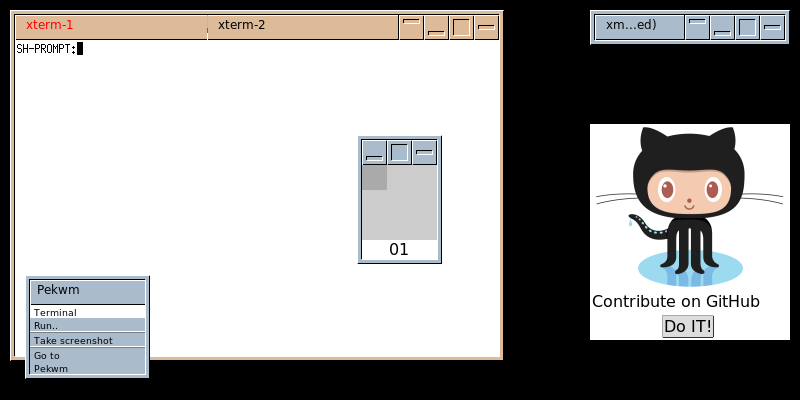
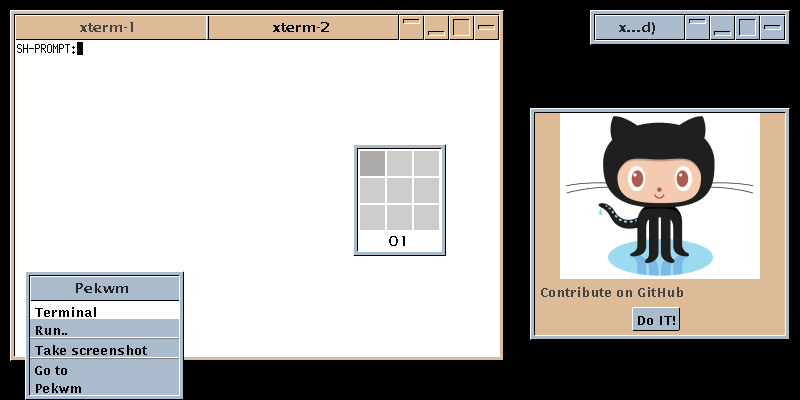
Update themes

diff --git a/themes/theme_index.html b/themes/theme_index.html
@@ -71,10 +71,14 @@
           
           
           
+          
+          
         </ul>
         
         <h2 class="category">A</h2>
         <ul class="theme-list">
+          
+          
           
           
           
@@ -139,10 +143,14 @@
           
           
           
+          
+          
         </ul>
         
         <h2 class="category">C</h2>
         <ul class="theme-list">
+          
+          
           
           
           
@@ -211,10 +219,14 @@
           
           
           
+          
+          
         </ul>
         
         <h2 class="category">E</h2>
         <ul class="theme-list">
+          
+          
           
           
           
@@ -277,6 +289,8 @@
           
           
           
+          
+          
         </ul>
         
         <h2 class="category">G</h2>
@@ -310,10 +324,14 @@
           
           
           
+          
+          
         </ul>
         
         <h2 class="category">H</h2>
         <ul class="theme-list">
+          
+          
           
           
           
@@ -378,6 +396,8 @@
           
           
           
+          
+          
         </ul>
         
         <h2 class="category">J</h2>
@@ -411,10 +431,14 @@
           
           
           
+          
+          
         </ul>
         
         <h2 class="category">K</h2>
         <ul class="theme-list">
+          
+          
           
           
           
@@ -481,6 +505,8 @@
           
           
           
+          
+          
         </ul>
         
         <h2 class="category">M</h2>
@@ -510,6 +536,8 @@
           
           
           <li><a href="mavon-t.html">mavon-t</a>, mavon-t, port of a theme for mavosxwm</li>
+          
+          
           
           
           
@@ -556,10 +584,14 @@
           
           
           
+          
+          
         </ul>
         
         <h2 class="category">O</h2>
         <ul>
+          
+          
           
           
           
@@ -617,6 +649,10 @@
           
           
           
+          <li><a href="pwm-p.html">pwm-p</a>, PWM styled themes for pekwm</li>
+          
+          
+          
           
           
           
@@ -626,6 +662,8 @@
         
         <h2 class="category">Q</h2>
         <ul>
+          
+          
           
           
           
@@ -688,10 +726,14 @@
           
           
           
+          
+          
         </ul>
         
         <h2 class="category">S</h2>
         <ul>
+          
+          
           
           
           
@@ -758,10 +800,14 @@
           
           
           
+          
+          
         </ul>
         
         <h2 class="category">U</h2>
         <ul>
+          
+          
           
           
           
@@ -824,10 +870,14 @@
           
           
           
+          
+          
         </ul>
         
         <h2 class="category">W</h2>
         <ul>
+          
+          
           
           
           
@@ -892,10 +942,14 @@
           
           
           
+          
+          
         </ul>
         
         <h2 class="category">Y</h2>
         <ul>
+          
+          
           
           
           
@@ -958,6 +1012,8 @@
           
           
           
+          
+          
         </ul>
         
         <h2 class="category">#</h2>
@@ -965,6 +1021,8 @@
           
           
           <li><a href="4dwm_based.html">4dwm_based</a>, 4dwm_based</li>
+          
+          
           
           
           

diff --git a/themes/pwm-p.html b/themes/pwm-p.html
@@ -1,0 +1,86 @@
+<!doctype html>
+<html lang="en">
+  <head>
+    <meta charset="utf-8">
+    <meta name="viewport" content="width=device-width, initial-scale=1.0">
+    <title>pwm-p theme</title>
+    <link rel="stylesheet" href="https://unpkg.com/purecss@2.0.5/build/pure-min.css"
+          integrity="sha384-LTIDeidl25h2dPxrB2Ekgc9c7sEC3CWGM6HeFmuDNUjX76Ert4Z4IY714dhZHPLd"
+          crossorigin="anonymous">
+    <link rel="stylesheet" href="https://unpkg.com/purecss@2.0.5/build/grids-responsive-min.css">
+    <link rel="stylesheet" href="https://netdna.bootstrapcdn.com/font-awesome/4.0.3/css/font-awesome.css">
+    <link rel="stylesheet" href="pekwm-theme.css">
+    <link rel="icon" type="image/x-icon" href="favicon.ico" />
+  </head>
+  <body>
+  <div class="header">
+    <div class="home-menu pure-menu pure-menu-horizontal pure-menu-fixed">
+      <ul class="pure-menu-list">
+        <li class="pure-menu-item">
+          <a href="https://pekdon.github.com" class="pure-menu-link">Blog</a>
+        </li>
+        <li class="pure-menu-item">
+          <a href="https://github.com/pekdon/pekwm/blob/master/doc/README.md" class="pure-menu-link">Doc</a>
+        </li>
+        <li class="pure-menu-item pure-menu-item-selected">
+          <a href="/themes/" class="pure-menu-link">Themes</a>
+        </li>
+        <li class="pure-menu-item">
+          <a href="https://www.pekwm.se/" class="pure-menu-link">Pekwm</a>
+        </li>
+        <li class="pure-menu-item">
+          <a href="https://github.com/pekdon/pekwm" class="pure-menu-link">Develop on Github</a>
+        </li>
+      </ul>
+    </div>
+  </div>
+
+<div>
+  <div class="content">
+    <div class="pure-g"></div>
+    <div class="pure-g">
+      <div class="pure-u-1-2">
+        <h2 class="content-head">pwm-p theme</h2>
+        <strong>Author</strong><br /> Claes Nästén<br />
+        
+        <strong>Homepage</strong><br /> <a href="https://github.com/pekdon/pekwm-theme-pwm-p">https://github.com/pekdon/pekwm-theme-pwm-p</a><br />
+        
+      </div>
+      <div class="pure-u-1-2">
+        
+      </div>
+    </div>
+    <div>
+      <figure>
+        <img class="pure-img" src="pwm-p.png" width="800"
+             alt="pwm-p screenshot" />
+        <figcaption>Generated screenshot of pwm-p</figcaption>
+      </figure>
+
+      
+      
+      
+      
+      <figure>
+        <img class="pure-img" src="pwm-p-beos.png" width="800"
+             alt="pwm-p, beos variant screenshot" />
+        <figcaption>Generated screenshot of pwm-p, beos variant</figcaption>
+      </figure>
+      
+      
+
+      
+
+      <h3>Install</h3>
+
+      <pre>$ pekwm_theme install pwm-p</pre>
+    </div>
+  </div>
+
+  <div class="footer l-box is-center">
+    pekwm themes generated from pekwm-theme-index
+  </div>
+</div>
+
+</body>
+</html>

diff --git a/themes/index.html b/themes/index.html
@@ -47,42 +47,42 @@
       </div>
     </div>
     <div class="photo-box pure-u-1 pure-u-md-1-2 pure-u-lg-1-3">
-      <a href="ion-p.html">
-        <img src="ion-p.png" alt="ion-p" />
+      <a href="pwm-p.html">
+        <img src="pwm-p.png" alt="pwm-p" />
       </a>
 
       <aside class="photo-box-caption">
-        <span>ion-p by Claes Nästén</span>
+        <span>pwm-p by Claes Nästén</span>
       </aside>
     </div>
 
     <div class="photo-box pure-u-1 pure-u-md-1-2 pure-u-lg-1-3">
-      <a href="spiff-p.html">
-        <img src="spiff-p.png" alt="spiff-p" />
+      <a href="NeoMotif.html">
+        <img src="NeoMotif.png" alt="NeoMotif" />
       </a>
 
       <aside class="photo-box-caption">
-        <span>spiff-p by Claes Nästén</span>
+        <span>NeoMotif by Paulo Silva</span>
       </aside>
     </div>
 
     <div class="photo-box pure-u-1 pure-u-md-1-2 pure-u-lg-1-3">
-      <a href="m0nst4.html">
-        <img src="m0nst4.png" alt="m0nst4" />
+      <a href="lila.html">
+        <img src="lila.png" alt="lila" />
       </a>
 
       <aside class="photo-box-caption">
-        <span>m0nst4 by Oliver Kraitschy</span>
+        <span>lila by Claes Nästén</span>
       </aside>
     </div>
 
     <div class="photo-box pure-u-1 pure-u-md-1-2 pure-u-lg-1-3">
-      <a href="semitif.html">
-        <img src="semitif.png" alt="semitif" />
+      <a href="benu.html">
+        <img src="benu.png" alt="benu" />
       </a>
 
       <aside class="photo-box-caption">
-        <span>semitif by Paulo Silva</span>
+        <span>benu by Victor Geraldsson</span>
       </aside>
     </div>
   </div>
